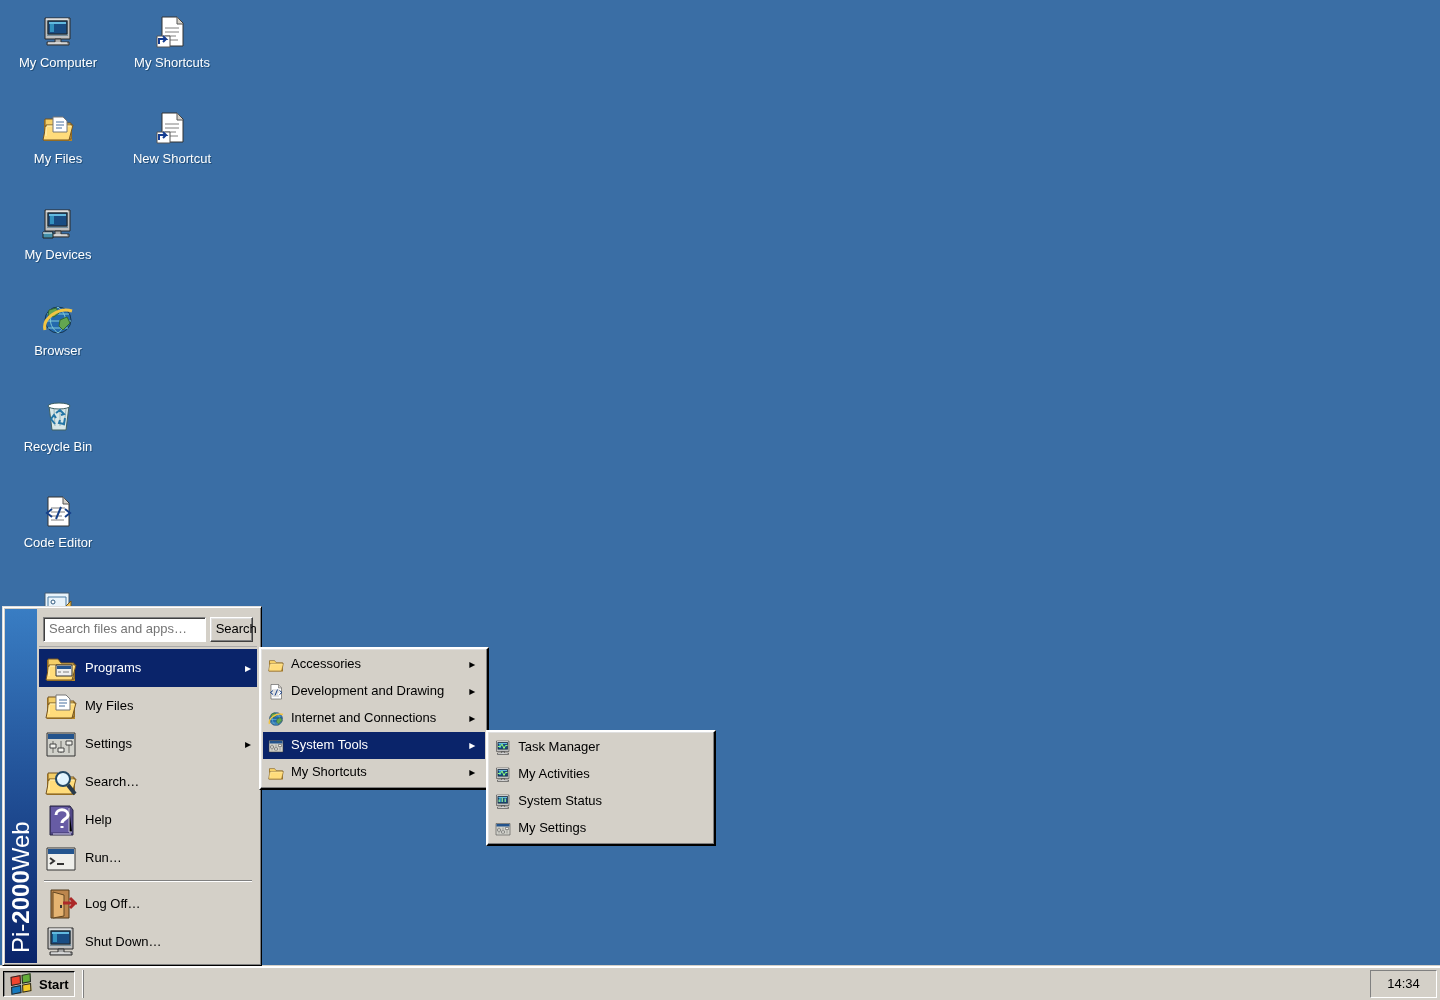
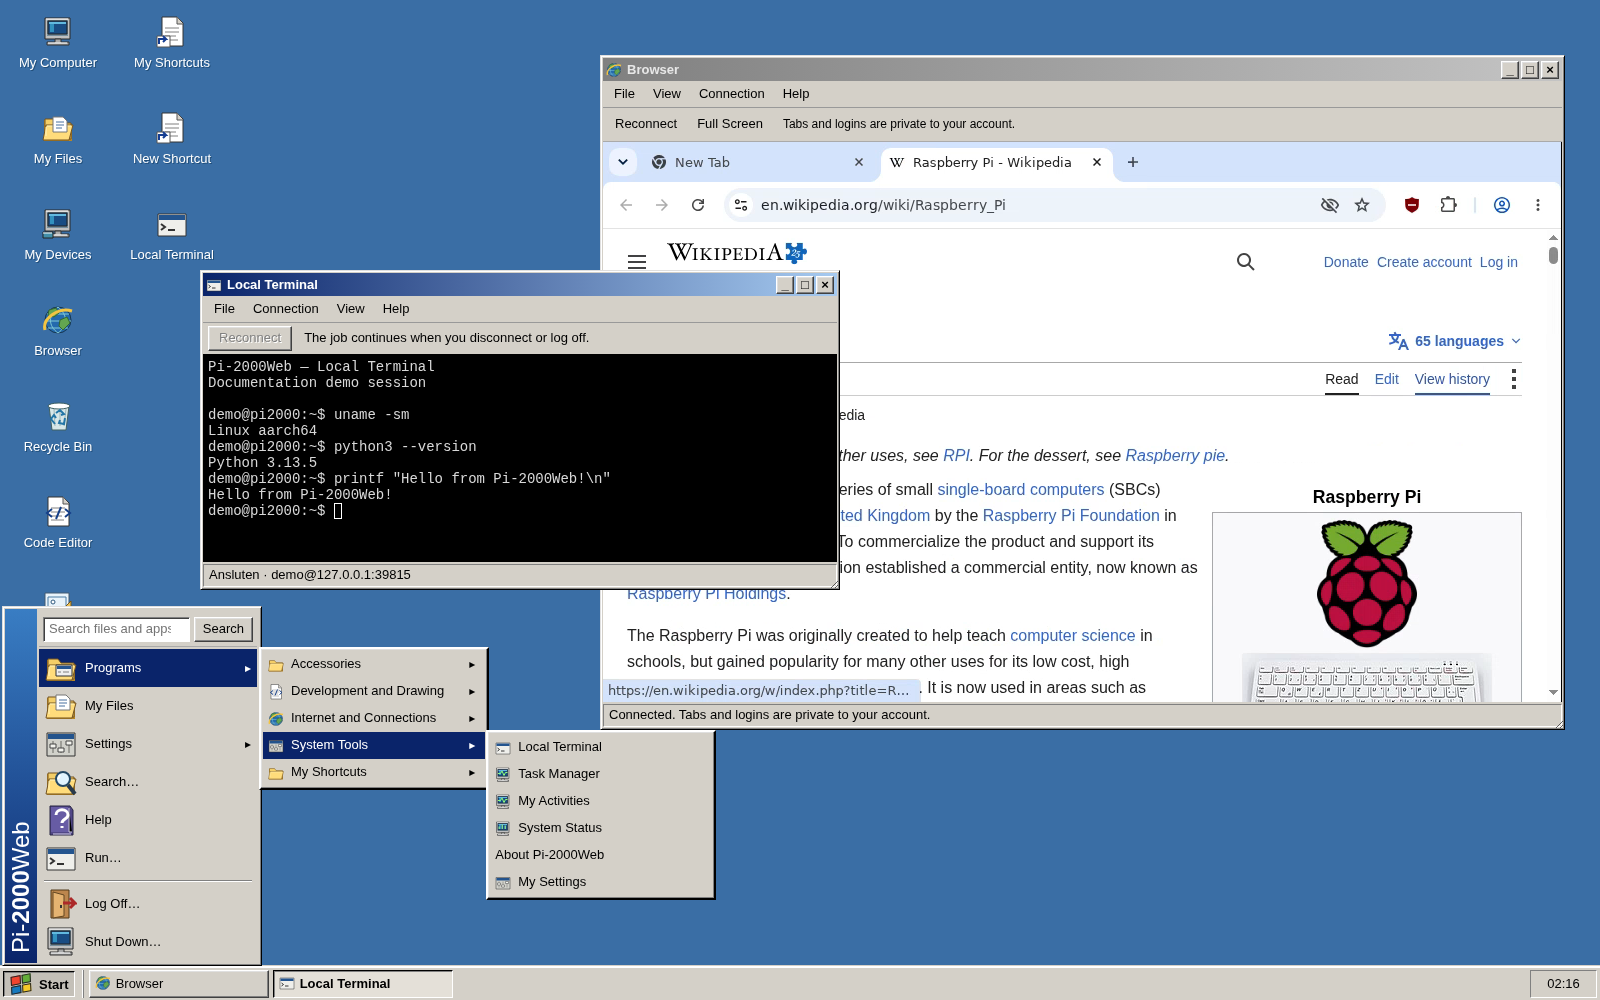
Refresh desktop screenshot with terminal, Browser and System Tools

diff --git a/README.md b/README.md
@@ -50,7 +50,9 @@ Existing web accounts migrate on their next successful login. A pre-existing Lin
 
 Start → Programs groups applications into **Accessories**, **Development and Drawing**, **Internet and Connections**, **System Tools** and **My Shortcuts**. The common File, Edit, View, Connection and Help menus expose the commands relevant to each application.
 
-![Pi-2000Web desktop and Start menu](docs/screenshots/desktop.png)
+![Pi-2000Web Alpha 4 desktop with Local Terminal, Browser and Start → Programs → System Tools](docs/screenshots/desktop.png)
+
+*Alpha 4 desktop in a temporary demo session, with Local Terminal, Browser and the System Tools menu open.*
 
 See [the user guide](docs/HELP.md) and [the design rules](docs/DESIGN-RULES.md).
 
